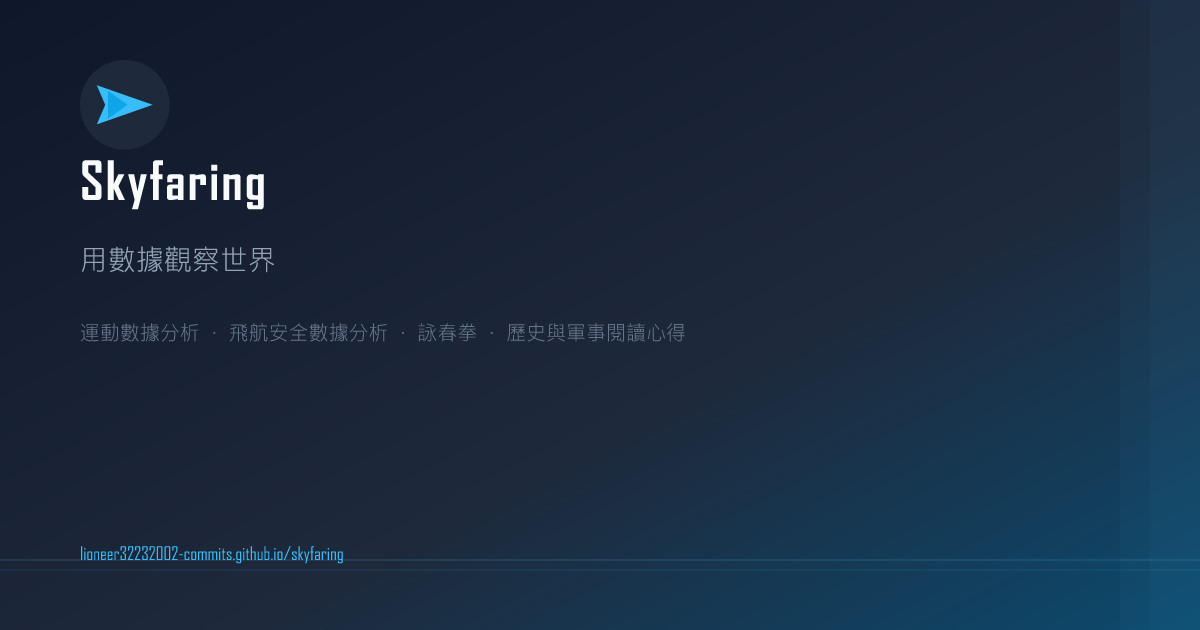
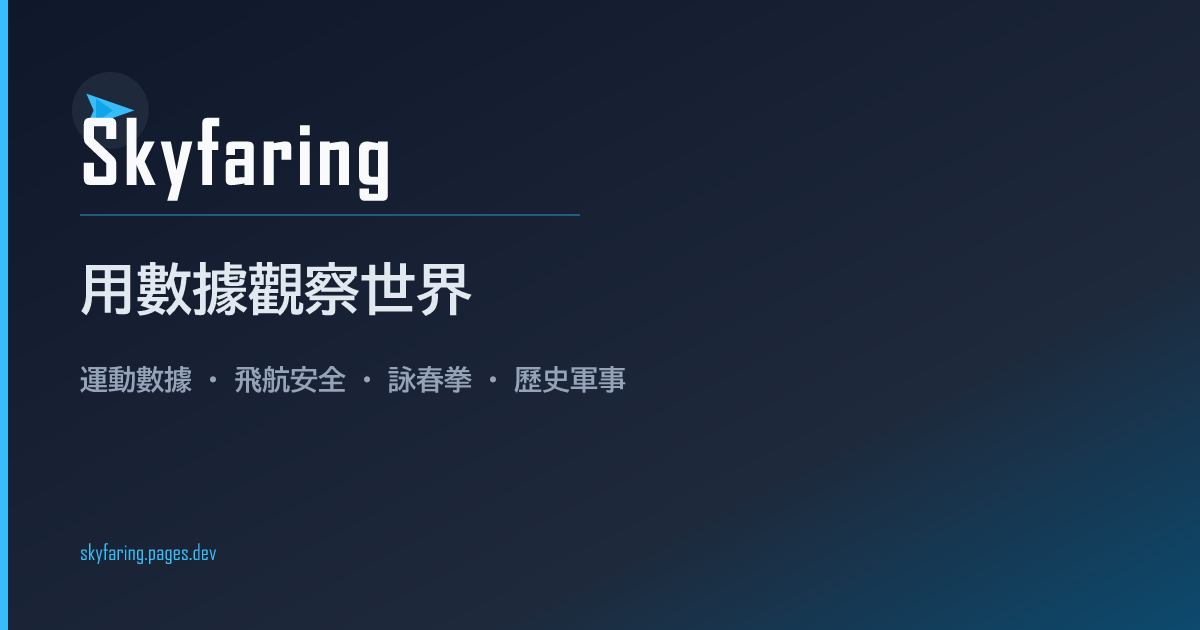
SEO 快速修正：補齊作者、sitemap、JSON-LD、OG 網域
- layout 的 author meta 從寫死的 AdamP 改為 Skyfaring
- sitemap 補上漏掉的 /ukraine-review/（與 drone-review 並列）
- BlogPosting JSON-LD 補 publisher.logo 與 mainEntityOfPage
- generate_og 的 URL 浮水印改 skyfaring.pages.dev，並重新生成 og-default.png

diff --git a/app/blog/[slug]/page.tsx b/app/blog/[slug]/page.tsx
@@ -78,6 +78,16 @@ export default async function ArticlePage({ params }: { params: Promise<{ slug: 
       "@type": "Organization",
       name: "Skyfaring",
       url: SITE_URL,
+      logo: {
+        "@type": "ImageObject",
+        url: `${SITE_URL}/images/og-default.png`,
+        width: 1200,
+        height: 630,
+      },
+    },
+    mainEntityOfPage: {
+      "@type": "WebPage",
+      "@id": `${SITE_URL}/blog/${slug}/`,
     },
     url: `${SITE_URL}/blog/${slug}/`,
     ...(post.heroImage && {

diff --git a/scripts/generate_og.js b/scripts/generate_og.js
@@ -55,7 +55,7 @@ const svg = `<svg xmlns="http://www.w3.org/2000/svg" width="1200" height="630" v
   <!-- URL -->
   <text x="80" y="560"
     font-family="'Noto Sans CJK TC', 'Noto Sans TC', 'Noto Sans', sans-serif"
-    font-size="22" fill="#38bdf8">lioneer32232002-commits.github.io/skyfaring</text>
+    font-size="22" fill="#38bdf8">skyfaring.pages.dev</text>
 </svg>`;
 
 const resvg = new Resvg(svg, {

diff --git a/app/layout.tsx b/app/layout.tsx
@@ -52,7 +52,7 @@ export default function RootLayout({
   return (
     <html lang="zh-TW" className="h-full">
       <head>
-        <meta name="author" content="AdamP" />
+        <meta name="author" content="Skyfaring" />
         {/* Google Analytics */}
         <script async src="https://www.googletagmanager.com/gtag/js?id=G-ZLQY8WT257"></script>
         <script dangerouslySetInnerHTML={{ __html: `

diff --git a/app/sitemap.ts b/app/sitemap.ts
@@ -51,6 +51,12 @@ export default function sitemap(): MetadataRoute.Sitemap {
       priority: 0.8,
     },
     {
+      url: `${SITE_URL}/ukraine-review/`,
+      lastModified: new Date().toISOString(),
+      changeFrequency: "weekly",
+      priority: 0.8,
+    },
+    {
       url: `${SITE_URL}/tpbl-lens/`,
       lastModified: new Date().toISOString(),
       changeFrequency: "monthly",
